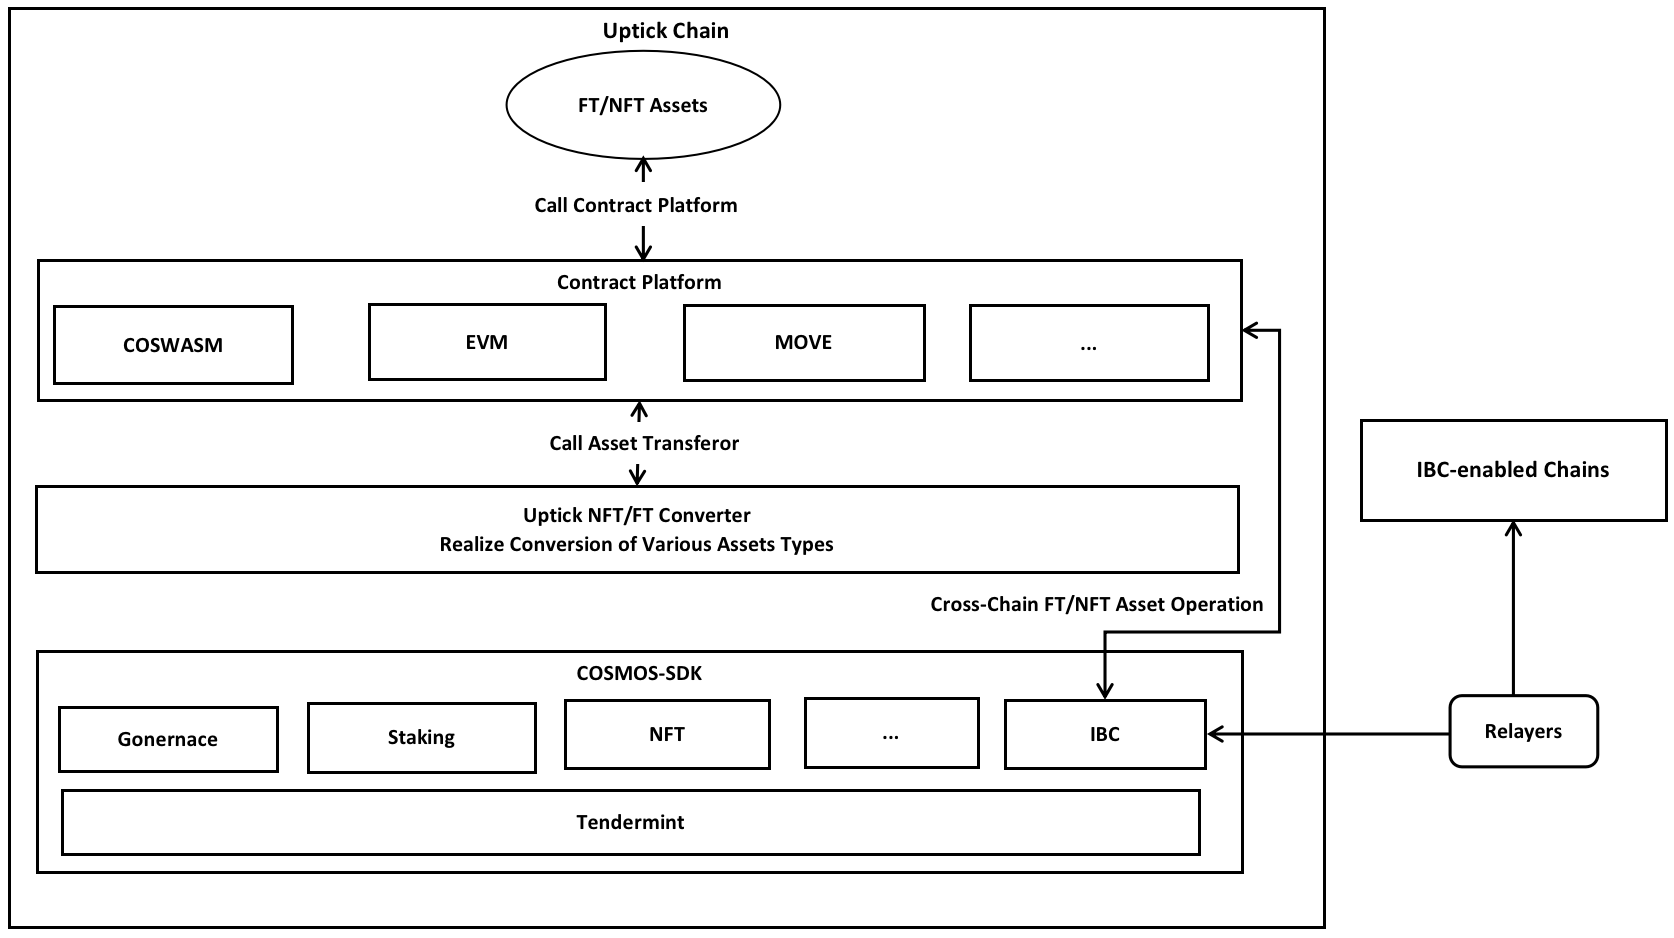
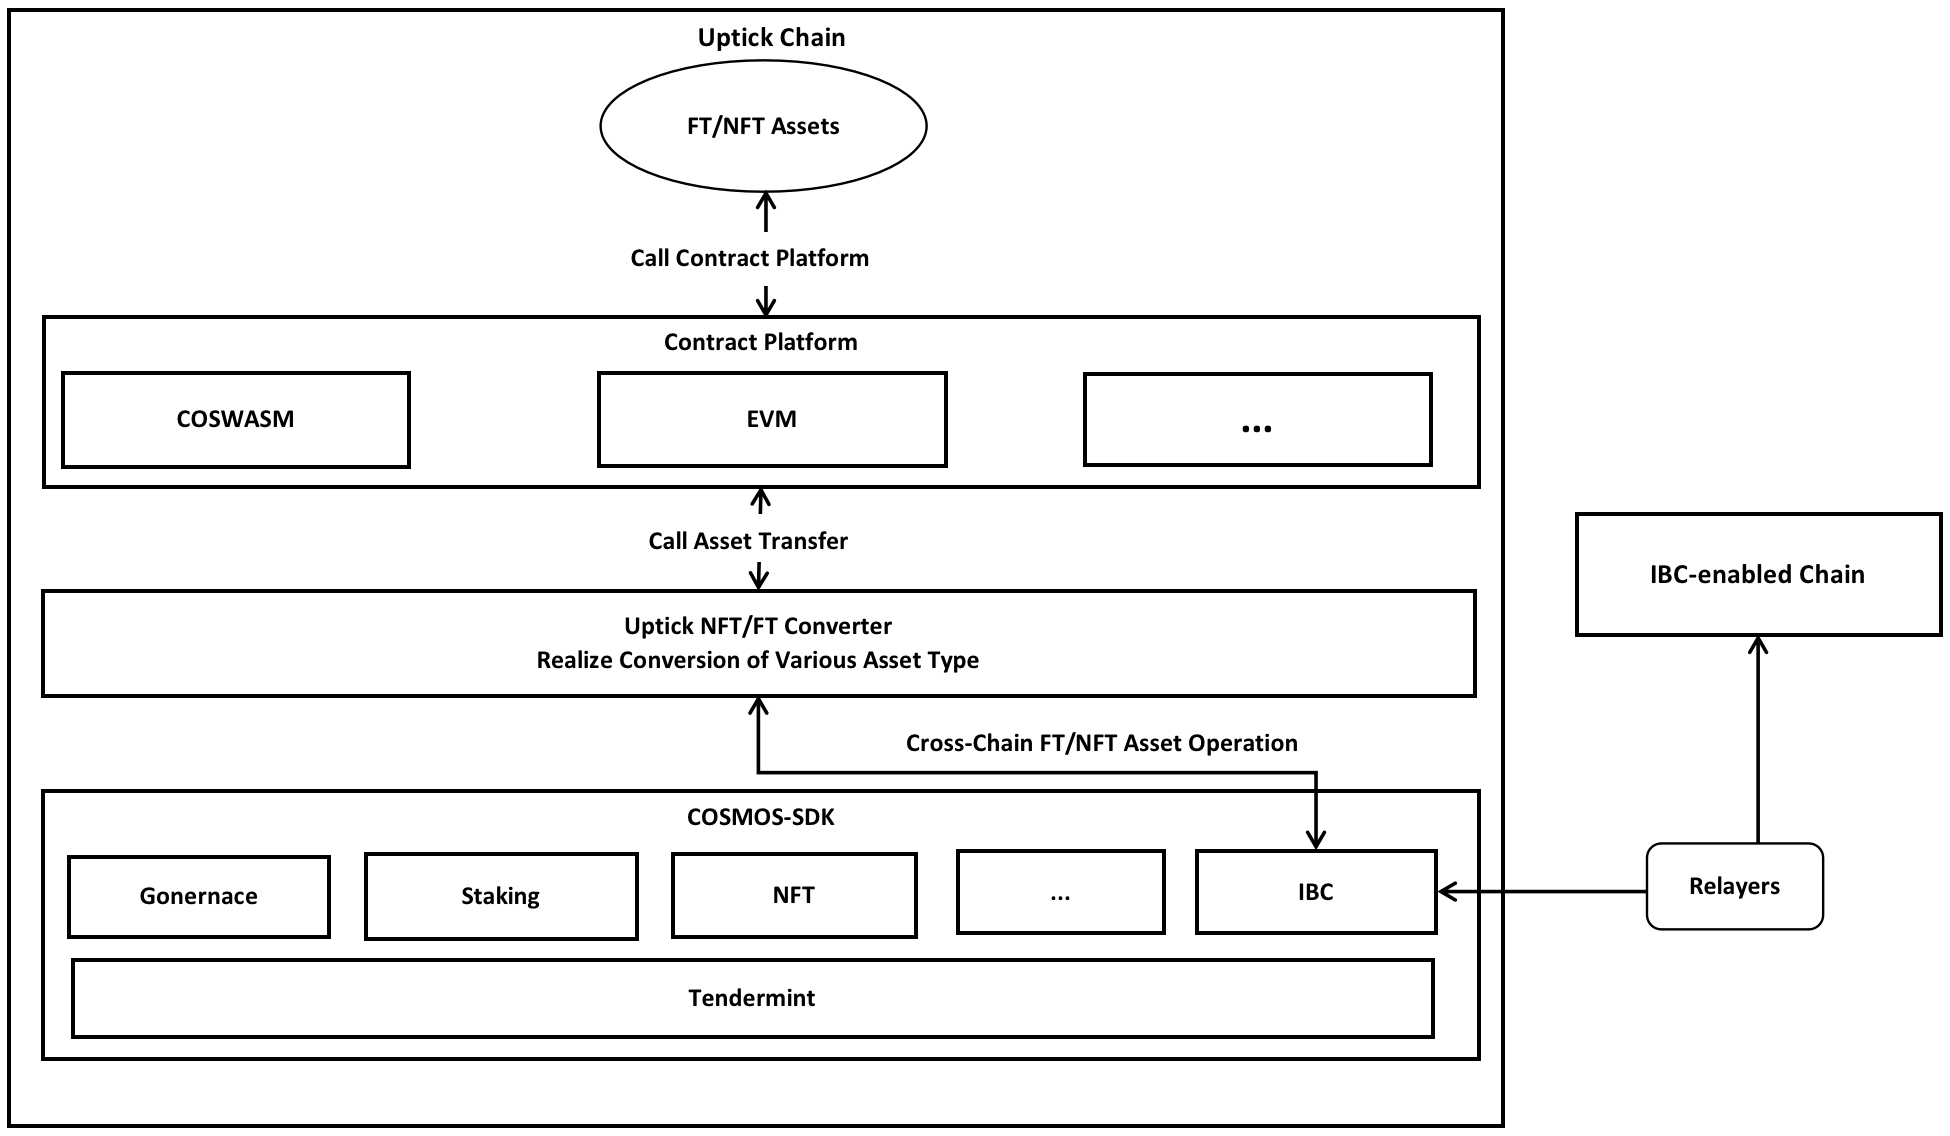
Modified the following: 1.Added figure number for white paper 2.Removed the content of the Move contract in the figure of uptick chain 3.Modified the description of the contract convertion and the position of the figure

diff --git a/WHITEPAPER_Technical.md b/WHITEPAPER_Technical.md
@@ -16,7 +16,7 @@
   - [5. Uptick Protocol](#5-uptick-protocol)
     - [5.1. Programmable NFT Protocol](#51-programmable-nft-protocol)
     - [5.2. Interchain NFT Protocol](#52-interchain-nft-protocol)
-    - [5.3. Interchain NFT Protocol](#53-interchain-nft-protocol)
+    - [5.3. Innerchain NFT Protocol](#53-innerchain-nft-protocol)
     - [5.4. NFT Scenario Protocol](#54-nft-scenario-protocol)
     - [5.5. DeFi Protocol](#55-defi-protocol)
   - [6. Framework and Services](#6-framework-and-services)
@@ -28,6 +28,7 @@
   - [7. Tokenized Real-world Assets](#7-tokenized-real-world-assets)
   - [8. Direction and Roadmap](#8-direction-and-roadmap)
   - [9. Conclusion](#9-conclusion)
+- [**10. References**](#10-references)
 
 
 ## Abstract
@@ -110,11 +111,15 @@ The **ecosystem application layer** is an open ecosystem application system, inc
 
 <img src="./image/FourMainLayers.png" style="width: 90%;">
 
+
+<center>Figure 1. Uptick Network Technology Architecture</center>
+
 **Uptick Network Infrastructure | Key Components**
 
 ### 3. Uptick Chain
 
 <img src="./image/UptickChain.png" style="width: 90%;">
+<center>Figure 2. The Main Components of Uptick Chain</center>
 
 Uptick Chain is an NFT ecosystem application chain built on the Cosmos-SDK that provides comprehensive underlying support for a range of different NFT application scenarios, including cross-chain NFT asset support. It integrates the IBC cross-chain features of the Cosmos Ecosystem and is fully compatible with the mainstream EVM system, allowing Uptick Chain to offer extensive additional underlying support for NFT applications.
 
@@ -123,6 +128,9 @@ Uptick chain supports cross-chain transfers including EVM contracts based on the
 #### 3.1. Built on Cosmos-SDK
 
 <img src="./image/BuiltonCosmos-SDK.png" style="width: 80%;">
+
+<center>Figure 3. The Role of Cosmos SDK in Uptick Chain </center>
+
 
 In the Cosmos Ecosystem, developers can use the Cosmos-SDK to build custom blockchain applications, achieving highly customizable, modular, secure, and high-performance decentralized applications.
 
@@ -180,11 +188,15 @@ In addition to using the existing Cosmos-SDK, Uptick Network actively participat
 
 #### 3.2. Major Smart Contract Language Support
 
+Smart contracts are highly deterministic, tamper-proof, and reliable digital agreements that run on decentralized blockchains. Since NFTs were initially built on the ERC protocol, most mainstream NFT platforms now support smart contracts. Uptick chain also supports the smart contracts of the main process, which now includes EVM and Wasm smart contracts, and will support more types of smart contracts in the future according to the business needs of the application.
+
+Moreover, traditional NFT platforms only support NFT assets on EVM or WASM. Both types of NFT assets have their application scenarios and business requirements for mutual conversion.
+
+Therefore, Uptick provides support for mainstream EVM and WASM contracts and seamless conversion between the two types of assets at the contract layer.
+
 <img src="./image/MajorSmartContract.png" style="width: 80%;">
 
-Smart contracts are highly deterministic, tamper-proof, and reliable digital protocols that run on decentralized blockchains. Since NFTs were initially built on the ERC protocol, most mainstream NFT platforms now support smart contracts. However, traditional NFT platforms only support NFT assets on EVM or WASM. Both types of NFT assets have their application scenarios and business requirements for mutual conversion.
-
- Therefore, Uptick provides support for mainstream EVM and WASM contracts and seamless conversion between the two types of assets at the contract layer.
+<center>Figure 4. Uptick NFT/NT Conversion</center>
 
  **Benefits of this Approach：**
 
@@ -201,6 +213,7 @@ It should be noted that the underlying technology of blockchain contracts is con
 ### 4. Base Layer Modules
 
 <img src="./image/BaseLayerModules.png" style="width: 80%;">
+<center>Figure 5. Base Layer Modules</center>
 
 Uptick Network has built a complete set of fundamental modules in the upper layer of the Uptick Chain, which have been continuously improved through long-term practice.
 
@@ -237,6 +250,7 @@ Through these features, Uptick aims to provide a more seamless and integrated bl
 #### 4.2. Uptick Cross-chain Bridge (UCB)
 
 <img src="./image/UptickCross-chainBridge.png" style="width: 90%;">
+<center>Figure 6. Uptick Cross-chain Bridge (UCB1.0) And IBC </center>
 
 In Cosmos-SDK, Tendermint light clients use twisted Edwards curves (Ed25519) which are not compatible with the Ethereum chain that operates on BN254. Consequently, on-chain validation of Ed25519 signatures on Ethereum is inefficient and expensive.
 
@@ -257,6 +271,7 @@ Unlike IBC, which mainly focuses on cross-chain operations within the Cosmos Eco
 *  The UCB2.0 platform also utilizes the rollup mechanism to facilitate batch processing and verification of transactions. This helps reduce transaction fees and improve transaction throughput, resulting in a more efficient and cost-effective cross-chain solution.
 
 <img src="./image/UCB2Flow.png" style="width: 90%;">
+<center>Figure 7. Uptick Cross-chain Bridge (UCB2.0) </center>
 
 #### 4.3. Uptick Storage
 
@@ -319,6 +334,7 @@ Uptick Network actively seeks collaboration with technical community teams, in a
 The Uptick Protocol is a modular business protocol created by the Uptick core team. Its primary objective is to support a range of NFT business scenarios. By offering a flexible and adaptable framework, the Uptick Protocol allows developers to create and implement diverse use cases for NFTs, promoting innovation and growth within the NFT ecosystem.
 
  <img src="./image/UptickProtocol.png" style="width: 80%;">
+ <center>Figure 8. Uptick Protocol </center>
 
 #### 5.1. Programmable NFT Protocol
 
@@ -365,7 +381,7 @@ Cross-chain transfers of NFTs across multiple chains are achieved through variou
  This part of the protocol defines the rules for recognizing and tracing NFT assets that have been transferred across chains. It allows users and systems within the Uptick Chain to identify the provenance, history, and ownership of cross-chain NFTs, enhancing transparency and trust in the NFT ecosystem.
 
 
-### **5.3. Innerchain NFT Protocol**
+#### 5.3. Innerchain NFT Protocol
 
 **NFT Innerchain Protocol**
 
@@ -432,6 +448,7 @@ As Web3 continues to evolve, more universal protocols will be developed, optimiz
 The Uptick framework is built on top of the Uptick Chain and its underlying modules, adhering to the Uptick Protocol development standards. This framework is presented to the community developers as a fundamental infrastructure. Furthermore, based on the requirements of various businesses, Uptick Network offers several service modules related to business within the fundamental framework, with the following specific features:
 
  <img src="./image/FrameworkandServices.png" style="width: 90%;">
+<center>Figure 9. Uptick Framework Services </center>
 
 #### 6.1. Omnichannel Payment Module
 

diff --git a/WHITEPAPER_Tokenomics.md b/WHITEPAPER_Tokenomics.md
@@ -76,6 +76,7 @@ Tokens managed by Uptick Chain are not limited to the native tokens supported by
 * Extended Rule-based Governance
 
 <img src="./image/RuleBased.jpg" width="450px">
+<center>Figure 1. Token Utility</center>
 
 ### Fees
 
@@ -322,6 +323,7 @@ By designing multi-layered token economics, Uptick Network aims to create a comp
 _The following figure illustrates the structure of Uptick Network's multi-layered token economics:_
 
 <img src="./image/StructureofUptick.jpg"  width="650px" style=" margin-top:30px;margin-bottom:30px;">
+<center>Figure 2. Multi-Chain Economy Layer</center>
 
 A multi-layered token economy offers several advantages:
 
@@ -365,7 +367,7 @@ This contract ensures both the powerful decentralized finance functions of EVM c
 
 
 <img src="./image/Validators.jpg" style="width: 90%; margin-top:30px;margin-bottom:30px;">
-
+<center>Figure 3. Uptick DAO Governance </center>
 
 Uptick DAO Governance will cover different categories with different rules, such as rights management, business grade application development and operation, decentralized data services, etc.
 
@@ -393,7 +395,7 @@ _Example:_
 
 
 <img src="./image/EappRules.jpg" style="width: 90%; margin-top:30px;margin-bottom:30px;">
-
+<center>Figure 4. Example of Rewards Governance</center>
 
 ### Multi-Chain Economy Model
 
